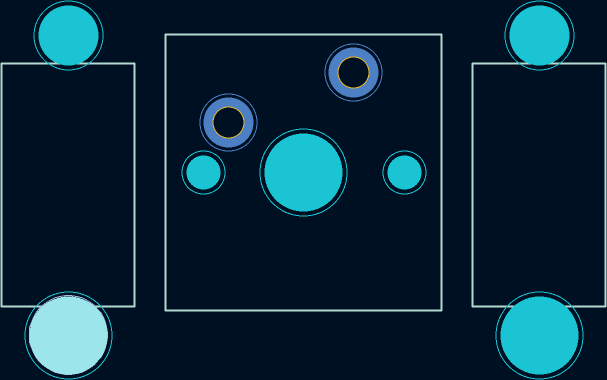
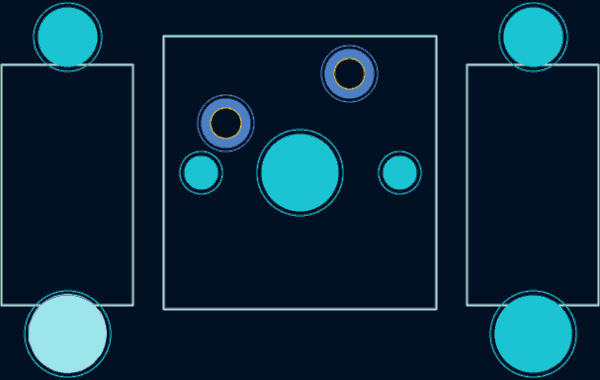
Fix grammar, resize images and add captions

diff --git a/src/components/ManufacturingHelpModal.vue b/src/components/ManufacturingHelpModal.vue
@@ -4,39 +4,48 @@
       <h6 class="help-section-title">What are manufacturing properties?</h6>
       <div class="help-content">
         <p>
-          The <code>Switch orientation</code> and <code>Stabilizer orientation</code> allow to
-          define mounting orientation of physical switches and its stabilizers. These rotations are
-          applied by <b>Plate Generator</b> independently on top of layout rotations and must be
-          multiply of 90&#176;.
+          The <code>Switch orientation</code> and <code>Stabilizer orientation</code> allow you to
+          define the mounting orientation of physical switches and their stabilizers. These
+          rotations are applied by <b>Plate Generator</b> independently, on top of layout rotations,
+          and must be a multiple of 90&#176;.
         </p>
 
         <p>
-          Most of the plate stabilizer cutouts types are unidirectional forcing specific mounting
-          orientation on the plate or PCB. Always validate that stabilizer cutout matches intended
-          mounting orientation of stabilizer.
+          Most plate stabilizer cutout types are unidirectional, forcing a specific mounting
+          orientation on the plate or PCB. Always validate that the stabilizer cutout matches the
+          intended mounting orientation of the stabilizer.
         </p>
 
         <p>
-          For Cherry MX PCB mounted stabilizer with wire facing south, this is correct PCB footprint
-          orientation and corresponding <b>Cherry MX Basic</b> cutout position:
+          For a Cherry MX PCB-mounted stabilizer with wire facing south, this is the correct PCB
+          footprint orientation and the corresponding <b>Cherry MX Basic</b> cutout position:
         </p>
 
         <div class="d-flex flex-wrap align-items-center">
-          <img
-            src="/cherry-mx-pcb-stabilizer-3d.png"
-            alt="Example of Cherry MX stabilizer orientation"
-            class="example-image"
-          />
-          <img
-            src="/cherry-mx-pcb-stabilizer-pcb.png"
-            alt="Example of Chery MX stabilizer PCB footprint orientation"
-            class="example-image"
-          />
-          <img
-            src="/cherry-mx-pcb-stabilizer-cutout.png"
-            alt="Example of Cherry MX plate cutout orientation"
-            class="example-image"
-          />
+          <figure class="example-figure">
+            <img
+              src="/cherry-mx-pcb-stabilizer-3d.png"
+              alt="Example of Cherry MX stabilizer orientation"
+              class="example-image"
+            />
+            <figcaption>3D view</figcaption>
+          </figure>
+          <figure class="example-figure">
+            <img
+              src="/cherry-mx-pcb-stabilizer-pcb.png"
+              alt="Example of Cherry MX stabilizer PCB footprint orientation"
+              class="example-image"
+            />
+            <figcaption>PCB footprint</figcaption>
+          </figure>
+          <figure class="example-figure">
+            <img
+              src="/cherry-mx-pcb-stabilizer-cutout.png"
+              alt="Example of Cherry MX plate cutout orientation"
+              class="example-image"
+            />
+            <figcaption>Plate cutout</figcaption>
+          </figure>
         </div>
       </div>
     </div>
@@ -63,9 +72,25 @@ const close = () => {
 </script>
 
 <style scoped>
+.example-figure {
+  margin: 0 0 0.5rem 1rem;
+  text-align: center;
+  flex: 1 1 0;
+  min-width: 0;
+  display: flex;
+  flex-direction: column;
+  align-items: center;
+  justify-content: flex-end;
+}
+
 .example-image {
-  max-width: 250px;
-  margin-left: 1rem;
-  margin-bottom: 0.5rem;
+  max-width: 100%;
+  height: auto;
+}
+
+figcaption {
+  font-size: 0.85em;
+  color: var(--bs-secondary-color);
+  margin-top: 0.25rem;
 }
 </style>
